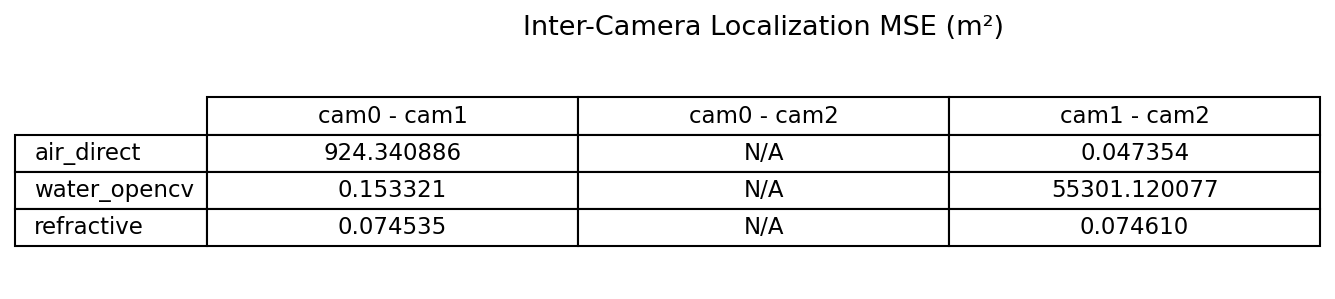
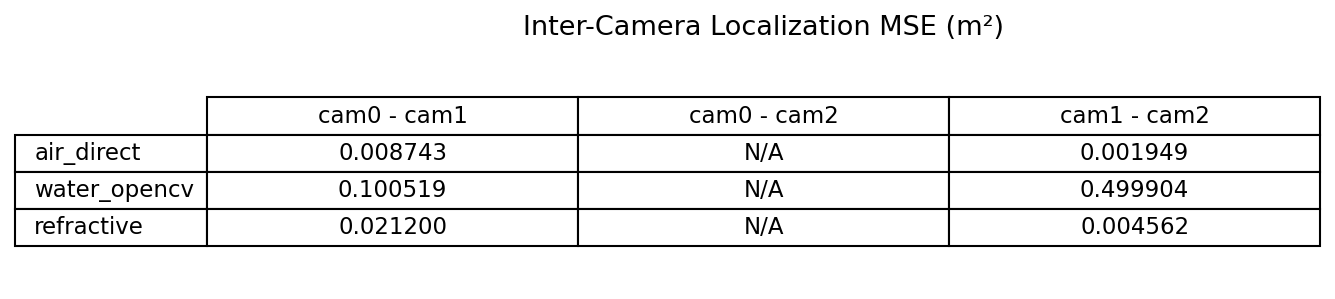
Filter the 99% best frames

diff --git a/localization/test.py b/localization/test.py
@@ -7,7 +7,8 @@ from localization import (
     make_charuco_detector, detect_video, localize_from_detections,
 )
 from result_analysis import (
-    extract_positions, compare_methods, plot_inter_camera_mse, plot_scatter_grid,
+    extract_positions, filter_best_frames,
+    compare_methods, plot_inter_camera_mse, plot_scatter_grid,
 )
 
 INTRINSIC_DIR = "../calibration/water"
@@ -39,15 +40,19 @@ def main():
                        for det in detections]
             all_results[method].extend(results)
 
+    # Keep only the best 95% of frames (drop worst 5% by inter-camera spread)
+    # per method, so stats/plots aren't dragged by occasional PnP outliers.
+    all_results = {m: filter_best_frames(r, keep=0.95) for m, r in all_results.items()}
+
     all_positions = {}
     for method in METHODS:
         all_positions[method] = extract_positions(all_results[method])
         n = sum(1 for p in all_positions[method] if p is not None)
-        print(f"'{method}': {n}/{len(all_positions[method])} frames localized")
+        print(f"'{method}': {n}/{len(all_positions[method])} frames localized (top 95%)")
 
     compare_methods(all_positions)
     plot_inter_camera_mse(all_results)
-    plot_scatter_grid(all_results)
+    # plot_scatter_grid(all_results)
 
 
 if __name__ == "__main__":

diff --git a/localization/result_analysis.py b/localization/result_analysis.py
@@ -5,6 +5,28 @@ import matplotlib.pyplot as plt
 from pathlib import Path
 
 
+def filter_best_frames(results, keep=0.99):
+    """Drop the worst (1 − keep) fraction of frames by inter-camera spread.
+
+    For each multi-camera frame, compute the sum of per-axis stdev across
+    detecting cameras. Frames above the `keep`-quantile of that score are
+    replaced with an empty dict (i.e. treated as un-localized downstream).
+    Frames with fewer than 2 detecting cameras have no spread signal and
+    are always kept.
+    """
+    spreads = []
+    for i, frame in enumerate(results):
+        if len(frame) < 2:
+            continue
+        pts = np.array([T[:3, 3] for T in frame.values()])
+        spreads.append((i, float(pts.std(axis=0).sum())))
+    if not spreads:
+        return list(results)
+    threshold = np.quantile([s for _, s in spreads], keep)
+    drop = {i for i, s in spreads if s > threshold}
+    return [{} if i in drop else f for i, f in enumerate(results)]
+
+
 def extract_positions(results):
     """Extract board XYZ positions per frame (average across detecting cameras).
 
